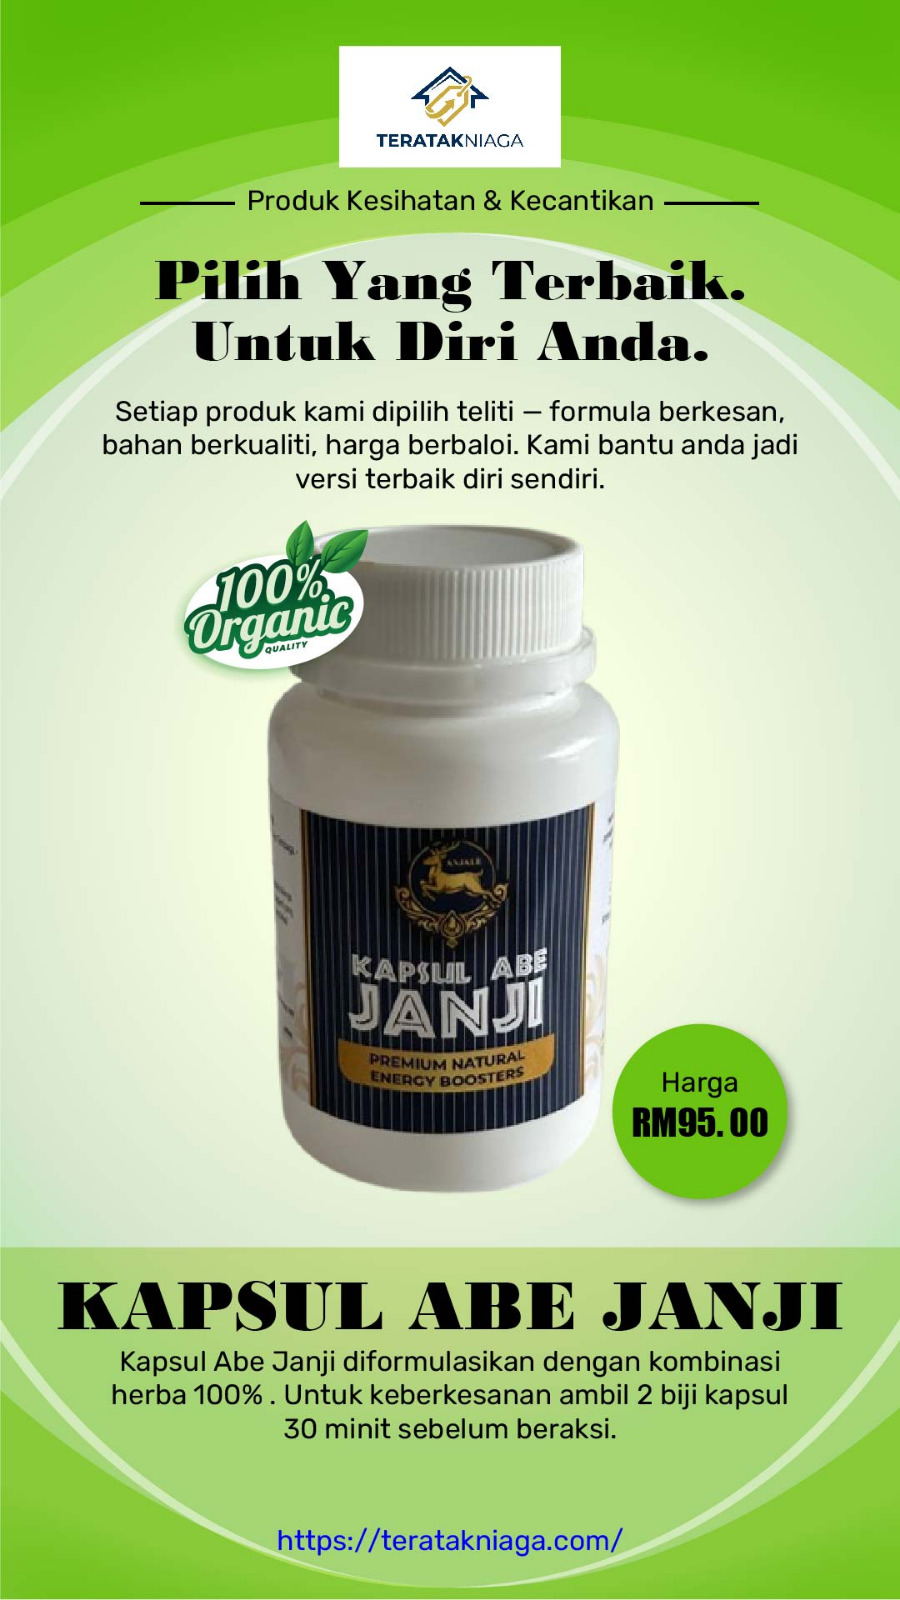
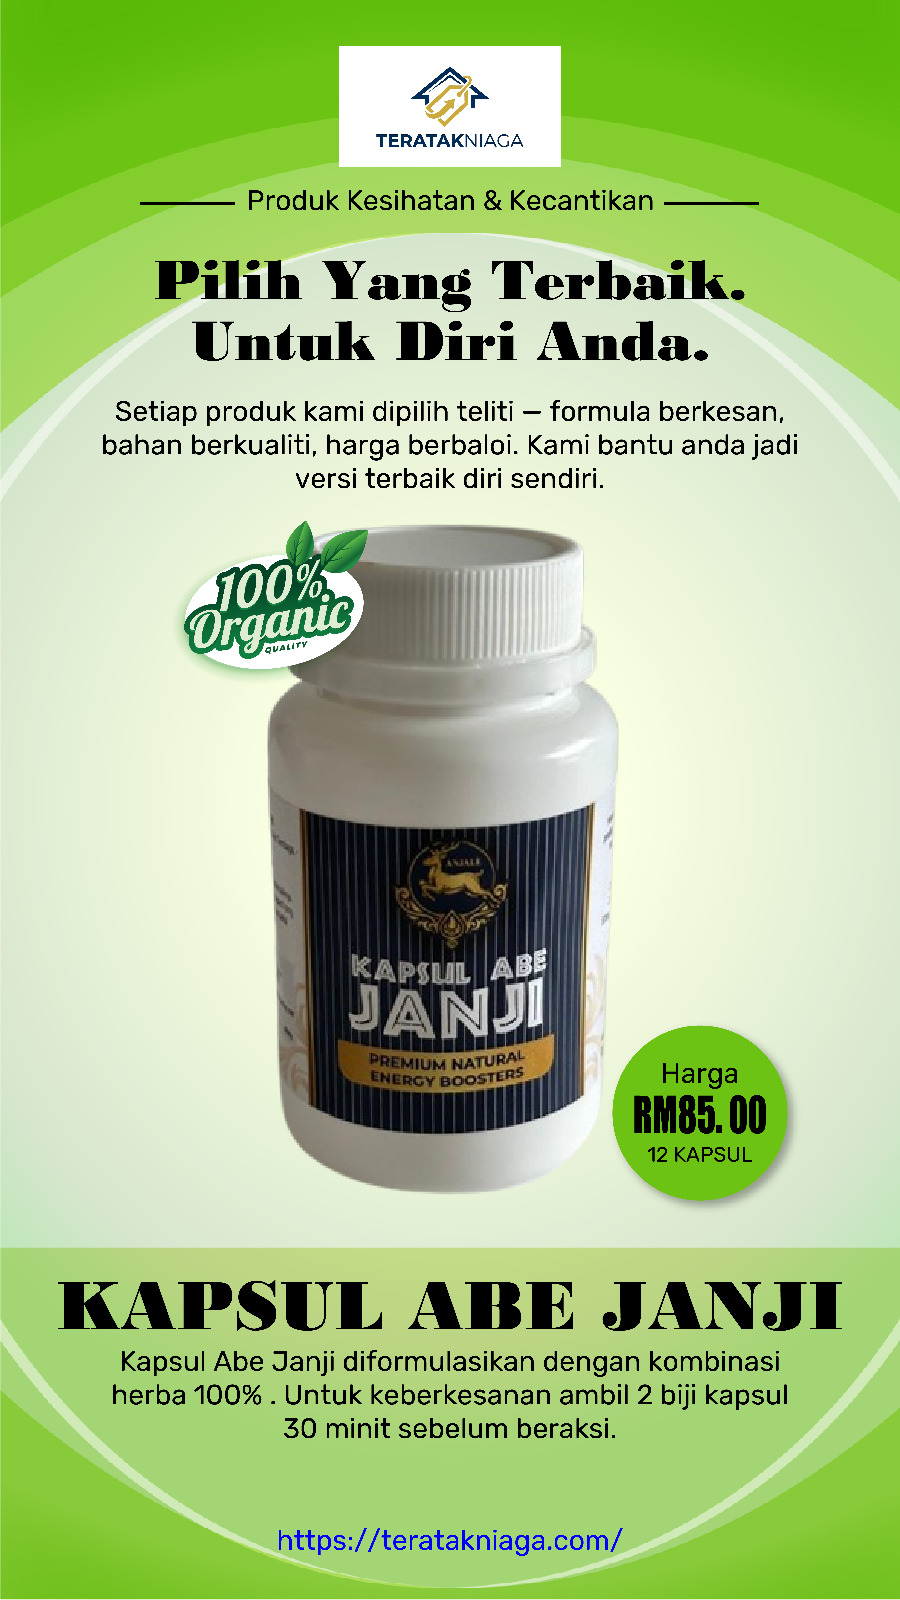
fix(abe-janji): harga RM95 → RM85 + gambar baru (12 kapsul) (#3)
* feat: add Kapsul KiManis product (suplemen kawal gula RM70)

* fix(ubat-gatal): tukar harga dari RM65 ke RM30

* fix(catalog): ubat gatal price mismatch (RM65 → RM30)

* chore(images): update ubat gatal product image

* fix(abe-janji): update harga RM95 → RM85 + gambar baru (12 kapsul)

- Product page price + meta + schema
- Catalog card price
- Product registry billName (1 Botol → 1 Botol (12s))
- New product image

---------

diff --git a/kapsul-abe-janji/index.html b/kapsul-abe-janji/index.html
@@ -5,7 +5,7 @@
   <meta name="viewport" content="width=device-width, initial-scale=1.0">
 
   <title>Kapsul Abe Janji — Energy Booster Lelaki Herba 100% | Teratak Niaga</title>
-  <meta name="description" content="Kapsul Abe Janji — premium natural energy booster lelaki dari kombinasi herba 100%. Ambil 2 biji 30 minit sebelum beraksi. RM95, COD seluruh Malaysia.">
+  <meta name="description" content="Kapsul Abe Janji — premium natural energy booster lelaki dari kombinasi herba 100%. Ambil 2 biji 30 minit sebelum beraksi. RM85 (12 kapsul), COD seluruh Malaysia.">
   <meta name="keywords" content="kapsul abe janji, supplement lelaki herba, energy booster lelaki, vitaliti lelaki malaysia, supplement tenaga lelaki natural">
   <meta name="author" content="Teratak Niaga">
   <meta name="robots" content="index, follow">
@@ -17,7 +17,7 @@
   <meta property="og:url" content="https://teratakniaga.com/kapsul-abe-janji">
   <meta property="og:image" content="https://teratakniaga.com/images/kapsulabejanji.jpeg">
   <meta property="og:locale" content="ms_MY">
-  <meta property="product:price:amount" content="95">
+  <meta property="product:price:amount" content="85">
   <meta property="product:price:currency" content="MYR">
 
   <link rel="icon" type="image/jpeg" href="/images/logo.jpg">
@@ -31,7 +31,7 @@
     "image": ["https://teratakniaga.com/images/kapsulabejanji.jpeg"],
     "brand": { "@type": "Brand", "name": "Anjalé" },
     "category": "Health & Beauty > Health Care > Supplements",
-    "offers": { "@type": "Offer", "name": "Kapsul Abe Janji", "price": "95.00", "priceCurrency": "MYR", "availability": "https://schema.org/InStock", "url": "https://teratakniaga.com/kapsul-abe-janji#order", "areaServed": "MY" }
+    "offers": { "@type": "Offer", "name": "Kapsul Abe Janji", "price": "85.00", "priceCurrency": "MYR", "availability": "https://schema.org/InStock", "url": "https://teratakniaga.com/kapsul-abe-janji#order", "areaServed": "MY" }
   }
   </script>
 
@@ -174,10 +174,10 @@
       <h2 class="reveal">Kapsul Abe Janji</h2>
       <div class="section-divider reveal"></div>
       <div class="pricing-grid pricing-single">
-        <div class="price-card popular reveal" data-package="single" data-price="95" data-shipping="8">
+        <div class="price-card popular reveal" data-package="single" data-price="85" data-shipping="8">
           <div class="popular-tag">PREMIUM NATURAL</div>
-          <h3>1 Botol</h3>
-          <div class="price">RM95</div>
+          <h3>1 Botol (12 Kapsul)</h3>
+          <div class="price">RM85</div>
           <ul>
             <li>Kombinasi Herba 100%</li>
             <li>Energy Booster Lelaki</li>

diff --git a/index.html b/index.html
@@ -165,7 +165,23 @@
             <h3>Kapsul Abe Janji</h3>
             <p>Premium natural energy booster dari kombinasi herba 100%. Untuk tenaga lelaki semula jadi.</p>
             <div class="catalog-card-meta">
-              <span class="catalog-price">RM95</span>
+              <span class="catalog-price">RM85</span>
+              <span class="catalog-cta">Lihat Detail →</span>
+            </div>
+          </div>
+        </a>
+
+        <!-- Kapsul KiManis -->
+        <a href="/kapsul-kimanis" class="catalog-card reveal">
+          <div class="catalog-card-img">
+            <img src="/images/kapsulkimanis.jpeg" alt="Kapsul KiManis" loading="lazy" decoding="async">
+          </div>
+          <div class="catalog-card-body">
+            <span class="catalog-card-tag">Suplemen Kesihatan</span>
+            <h3>Kapsul KiManis</h3>
+            <p>Suplemen herba 100% untuk bantu kawal paras gula dalam darah. Ambil 2 biji selepas makan malam.</p>
+            <div class="catalog-card-meta">
+              <span class="catalog-price">RM70</span>
               <span class="catalog-cta">Lihat Detail →</span>
             </div>
           </div>

diff --git a/functions/api/_products.js b/functions/api/_products.js
@@ -24,7 +24,13 @@ export const PRODUCTS = {
   'kapsul-abe-janji': {
     name: 'Kapsul Abe Janji',
     packages: {
-      single: 'Kapsul Abe Janji 1 Botol',
+      single: 'Kapsul Abe Janji 1 Botol (12s)',
+    },
+  },
+  'kapsul-kimanis': {
+    name: 'Kapsul KiManis',
+    packages: {
+      single: 'Kapsul KiManis 1 Botol (20s)',
     },
   },
   'kapsul-kimanis': {
